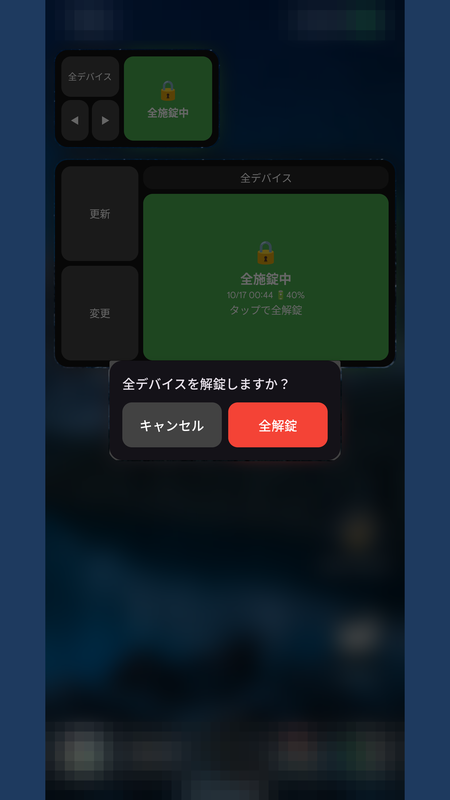
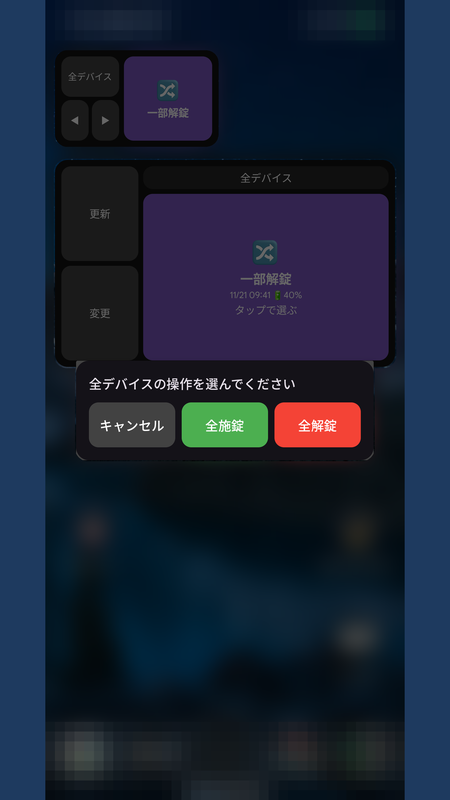
docs: 📝 掲載文・紹介ページ・クローズドテスト案内を0.17.0の動きへ直し、操作パネルを書き足す
ユーザーの判断で、ストア掲載文の主な機能に操作専用タイルなど0.17.0の機能を加え、
タイルの「ワンタップで施錠・解錠の確認画面」の説明を選ぶ画面の動きへ直した。
紹介ページは撮り直したストア画像から画像を作り直し、古い解錠中タイルの画像を外した。

関連: BL-299

Claude-Session: https://claude.ai/code/session_01WnqNbZ6ebvCGnSnCY76eMN

diff --git a/site/index.html b/site/index.html
@@ -51,7 +51,7 @@
           <h1>Sesami Wear<br>手首から<br>鍵をかける</h1>
           <p class="lead">
             Pixel Watch のタイルやスマートフォンのホーム画面ウィジェットから、CANDY HOUSE の
-            Sesame スマートロックをワンタップで施錠・解錠。結果は振動で伝わるので、画面を見返す必要はありません。
+            Sesame スマートロックを施錠・解錠。結果は振動で伝わるので、画面を見返す必要はありません。
           </p>
           <div class="actions">
             <a class="button primary" href="https://github.com/filderschoice/sesami-wear/blob/main/docs/CLOSED_TEST.md">クローズドテストに参加</a>
@@ -69,29 +69,29 @@
     <section id="flow">
       <div class="container">
         <h2>操作の流れ</h2>
-        <p class="section-lead">解錠までの操作は 3 ステップです。施錠は確認なしの 1 タップで、結果は振動で伝わります。</p>
+        <p class="section-lead">タップして、施錠か解錠かを選ぶだけです。結果は振動で伝わります。全施錠だけなら、操作パネルのタイルからタップ 1 回です。</p>
         <div class="flow-grid">
-          <div class="demo" role="img" aria-label="ウォッチの操作イメージ。タイルをタップし、確認画面で全解錠を押すと、タイルが解錠中の表示に変わる（約9秒で繰り返すアニメーション）">
+          <div class="demo" role="img" aria-label="ウォッチの操作イメージ。タイルをタップすると施錠・解錠を選ぶ画面が開き、全施錠か全解錠を押して実行する。全施錠だけなら操作パネルのタイルからタップ1回（約9秒で繰り返すアニメーション）">
             <img class="demo-frame f1" src="assets/wear-tile-locked.png" alt="" width="384" height="384">
             <img class="demo-frame f2" src="assets/wear-unlock-confirm.png" alt="" width="384" height="384">
-            <img class="demo-frame f3" src="assets/wear-3-tile-unlocked.png" alt="" width="384" height="384">
+            <img class="demo-frame f3" src="assets/wear-control-panel.png" alt="" width="384" height="384">
             <p class="demo-caption c1">① タイルの大きなボタンをタップ</p>
-            <p class="demo-caption c2">② 確認画面で「全解錠」を押す</p>
-            <p class="demo-caption c3">③ 解錠。成功は振動でも伝わる</p>
+            <p class="demo-caption c2">② 「全施錠」か「全解錠」を押す</p>
+            <p class="demo-caption c3">③ 全施錠だけなら操作パネルから1タップ</p>
           </div>
           <ol class="flow-steps">
-            <li><strong>タップ</strong>タイルのボタンが、現在の状態と次の操作を示します。</li>
-            <li><strong>確認</strong>解錠だけは確認を挟み、手首が当たった程度では開きません。施錠は確認なしです。</li>
+            <li><strong>タップ</strong>タイルのボタンが現在の状態を示し、タップすると施錠・解錠を選ぶ画面が開きます。</li>
+            <li><strong>選ぶ</strong>施錠・解錠を選ぶ画面で押したときだけ実行します。手首が当たった程度では開きません。</li>
             <li><strong>結果</strong>成功と失敗は異なる振動パターンで伝わります。画面を見返す必要はありません。</li>
           </ol>
         </div>
         <h3 class="spaced">スマートフォンのウィジェットでも同じ操作</h3>
         <ul class="flow-row">
-          <li><img class="phone" src="assets/phone-widget.png" alt="ホーム画面のウィジェット。全デバイスが施錠中で、全解錠のボタンが緑色に表示されている" width="450" height="800" loading="lazy"><span>① 施錠中のウィジェットをタップ</span></li>
+          <li><img class="phone" src="assets/phone-widget.png" alt="ホーム画面のウィジェット。全デバイスが施錠中で、緑色のボタンに「タップで選ぶ」と表示されている" width="450" height="800" loading="lazy"><span>① ウィジェットをタップ</span></li>
           <li class="arrow" aria-hidden="true">→</li>
-          <li><img class="phone" src="assets/phone-2-widget-unlock-confirm.png" alt="ウィジェットの下に「全デバイスを解錠しますか？」の確認ダイアログが出ている" width="450" height="800" loading="lazy"><span>② 確認ダイアログで「全解錠」</span></li>
+          <li><img class="phone" src="assets/phone-2-widget-unlock-confirm.png" alt="ウィジェットの上に「全デバイスの操作を選んでください」の画面が出ていて、キャンセル・全施錠・全解錠のボタンが並ぶ" width="450" height="800" loading="lazy"><span>② 「全施錠」か「全解錠」を押す</span></li>
           <li class="arrow" aria-hidden="true">→</li>
-          <li><img class="phone" src="assets/phone-3-widget-unlocked.png" alt="ウィジェットが赤色の「解錠中」の表示に変わっている" width="450" height="800" loading="lazy"><span>③ 赤い「解錠中」に変わる</span></li>
+          <li><img class="phone" src="assets/phone-3-widget-unlocked.png" alt="小さいウィジェットは玄関が赤色の「解錠中」、大きいウィジェットは全デバイスが紫色の「一部解錠」の表示になっている" width="450" height="800" loading="lazy"><span>③ 結果の状態に変わる</span></li>
         </ul>
       </div>
     </section>
@@ -105,8 +105,8 @@
         <ul class="features">
           <li class="card">
             <span class="tag">タイル</span>
-            <h3>ワンタップで施錠・解錠</h3>
-            <p>Wear OS のタイルから操作します。施錠は即時、解錠は誤操作を防ぐため確認を挟みます。通信中はボタンを無効にして二重送信を防ぎます。ウォッチのアプリの一覧からも、セサミの欄をタップして同じように操作でき、末尾の「更新」「全施錠」「すべて更新」でまとめて扱えます。</p>
+            <h3>タイルから施錠・解錠</h3>
+            <p>Wear OS のタイルから操作します。タップすると施錠・解錠を選ぶ画面が開き、押したときだけ実行するので誤操作を防げます。全施錠をタップ 1 回で実行できる操作専用のタイル「Sesami 操作パネル」もあります。通信中はボタンを無効にして二重送信を防ぎます。ウォッチのアプリの一覧からも、セサミの欄をタップして同じように操作でき、末尾の「更新」「全施錠」「すべて更新」でまとめて扱えます。</p>
           </li>
           <li class="card">
             <span class="tag">振動</span>
@@ -172,13 +172,13 @@
       <div class="container">
         <h2>画面</h2>
         <h3>ウォッチ</h3>
-        <p class="section-lead">Pixel Watch 2 での表示です（0.14.0。コンプリケーションは以前の版で撮影）。</p>
+        <p class="section-lead">Pixel Watch 2 での表示です（タイル・選ぶ画面・操作パネルは 0.17.0、そのほかは以前の版で撮影）。</p>
         <!-- TEMPLATE: 画面のスクリーンショット（1 枚 = 1 つの li。不要ならセクションごと削除） -->
         <ul class="features">
           <li class="card">
-            <img src="assets/wear-tile-locked.png" alt="ウォッチのタイル。全デバイスが施錠中で、タップで全解錠できることを示す緑のボタンと、更新・変更のボタンが並ぶ" width="384" height="384">
+            <img src="assets/wear-tile-locked.png" alt="ウォッチのタイル。全デバイスが施錠中で、「タップで選ぶ」と表示された緑のボタンと、更新・変更のボタンが並ぶ" width="384" height="384">
             <h3>タイル（施錠中）</h3>
-            <p>大きなボタンが状態と次の操作を示します。</p>
+            <p>大きなボタンが状態を示し、タップで施錠・解錠を選べます。</p>
           </li>
           <li class="card">
             <img src="assets/wear-tile-mixed.png" alt="ウォッチのタイル。全デバイスのうち一部だけが解錠されている状態を紫のボタンで示している" width="384" height="384">
@@ -186,9 +186,9 @@
             <p>複数台の状態が揃っていないことも一目で分かります。</p>
           </li>
           <li class="card">
-            <img src="assets/wear-unlock-confirm.png" alt="解錠の確認画面。左にキャンセル、右に赤い全解錠のボタンがある" width="384" height="384">
-            <h3>解錠の確認</h3>
-            <p>解錠だけは確認を挟み、誤操作を防ぎます。</p>
+            <img src="assets/wear-unlock-confirm.png" alt="施錠・解錠を選ぶ画面。左に緑の全施錠、右に赤い全解錠のボタンがある" width="384" height="384">
+            <h3>施錠・解錠を選ぶ</h3>
+            <p>押したほうだけを実行します。やめるときは右へスワイプします。</p>
           </li>
           <li class="card">
             <img src="assets/wear-complication.png" alt="ウォッチフェイス。時刻の下に並ぶコンプリケーションのひとつに「施錠」と表示されている" width="384" height="384">
@@ -196,9 +196,9 @@
             <p>文字盤から現在の状態を確認できます。</p>
           </li>
           <li class="card">
-            <img src="assets/wear-3-tile-unlocked.png" alt="ウォッチのタイル。全デバイスが解錠中で、タップで全施錠できることを示す赤いボタンが表示されている" width="384" height="384" loading="lazy">
-            <h3>タイル（解錠中）</h3>
-            <p>もう一度タップすれば、確認なしで全施錠します。</p>
+            <img src="assets/wear-control-panel.png" alt="操作専用タイル「Sesami 操作パネル」。上に緑の全施錠と赤い全解錠のボタン、下に玄関・勝手口・ガレージの状態のボタンが並び、玄関だけ解錠中の赤になっている" width="384" height="384" loading="lazy">
+            <h3>操作パネル</h3>
+            <p>全施錠はタップ 1 回。全解錠と台ごとの操作は、選ぶ画面を経て実行します。</p>
           </li>
           <li class="card">
             <img src="assets/wear-6-device-select.png" alt="ウォッチのデバイス選択画面。タイルで操作する対象のデバイスを選ぶ一覧" width="384" height="384" loading="lazy">
@@ -212,12 +212,12 @@
           </li>
         </ul>
         <h3 class="spaced">スマートフォン</h3>
-        <p class="section-lead">Pixel 8 Pro での表示です（0.14.3。個人情報の写る部分は加工しています）。</p>
+        <p class="section-lead">Pixel 8 Pro での表示です（デバイス一覧は 0.17.0、そのほかは以前の版で撮影。個人情報の写る部分は加工しています）。</p>
         <ul class="features">
           <li class="card">
-            <img class="phone" src="assets/phone-4-device-list.png" alt="アプリのデバイス一覧。玄関・勝手口・ガレージの3台が、施錠状態・電池残量・経路とともに並び、右上のBluetoothアイコンと各カードの接続確認から接続を確かめられる" width="450" height="800" loading="lazy">
+            <img class="phone" src="assets/phone-4-device-list.png" alt="アプリのデバイス一覧。玄関・勝手口・ガレージの3台が、施錠状態・電池残量・経路とともに並び、各カードに「鍵を操作」と「Bluetooth」のボタンがある" width="450" height="800" loading="lazy">
             <h3>デバイス一覧</h3>
-            <p>状態・電池残量・操作した経路を、デバイスごとに確認できます。</p>
+            <p>状態・電池残量・操作した経路を、デバイスごとに確認できます。「鍵を操作」から施錠・解錠もできます。</p>
           </li>
           <li class="card">
             <img class="phone" src="assets/phone-8-dial.png" alt="ダイヤル操作の画面。円の中の針でサムターンの角度を示し、円を半周なぞると施錠・解錠できる" width="450" height="800" loading="lazy">
@@ -274,7 +274,7 @@
           <li>SESAME Biz 開発者ページ（biz.candyhouse.co）で、uuid・apikey・secretKey の 3 点を確認・発行します。</li>
           <li>スマートフォンの Sesami Wear を開き、3 点とデバイス名を登録します（端末内に暗号化して保存します）。</li>
           <li>ウォッチにも Sesami Wear をインストールします（ウォッチの Google Play で検索。スマートフォンに入れただけでは入りません）。ウォッチのタイル一覧で「＋」から Sesami Wear を追加し、操作したいデバイスを選びます。ウォッチが無い場合はホーム画面にウィジェットを置きます。</li>
-          <li>ボタンをタップすると施錠します。解錠は確認画面で「解錠」を押します。成功・失敗は振動で分かります。</li>
+          <li>ボタンをタップすると施錠・解錠を選ぶ画面が開きます。「施錠」か「解錠」を押すと実行し、成功・失敗は振動で分かります。全施錠だけなら、操作パネルのタイルからタップ 1 回です。</li>
         </ol>
         <p class="spaced">詳しい手順は<a href="https://github.com/filderschoice/sesami-wear/blob/main/docs/USER_GUIDE.md">利用ガイド</a>を参照してください。</p>
       </div>

diff --git a/docs/records/managed/BACKLOG.md b/docs/records/managed/BACKLOG.md
@@ -5,31 +5,6 @@
 
 <!-- COPILOT_RECORDS:BEGIN -->
 ```yaml
-- id: BL-299
-  区分: 機能追加
-  タスク内容: >-
-    Google Playのストア掲載文（`docs/store/STORE_LISTING.md`の「主な機能」）へ、BL-298の操作専用タイル
-    （「Sesami 操作パネル」。ウォッチのタイル追加の一覧に別のタイルとして並び、全施錠・全解錠と台ごとの状態を1つに並べる）を
-    1行足すかを判断し、足すなら文面を直す。掲載文の変更は外部公開に関わるため、BL-298では変更していない。
-    あわせて`site/`のポートフォリオ（機能一覧）への追随要否も確認する。Play Consoleへの反映はユーザーが行う。
-    2026-11-21のドキュメント点検で、0.17.0の変更（BL-295・BL-303・BL-304。タップは常に施錠・解錠を選ぶ画面を開き、
-    解錠だけの確認ダイアログと解錠中の即施錠は無くなった）と食い違う公開向けの記述が見つかった。0.16.0の説明としては正しいため、
-    0.17.0の配信に合わせて直す: `docs/store/STORE_LISTING.md`「主な機能」の1〜2項目目（「タイルから施錠・解錠をワンタップで実行」
-    「解錠は確認ダイアログを経由し、施錠は即時実行」）、`docs/CLOSED_TEST.md` 9行目（「タイルをワンタップで施錠」）と57行目
-    （「確認画面」）、`site/index.html` の操作の流れ（74〜84行目の「確認画面で全解錠を押す」「施錠は確認なし」）・機能カード
-    （108行目「ワンタップで施錠・解錠」）・画面の`alt`と説明（179・189・199・201行目の「タップで全解錠」「解錠の確認画面」
-    「確認なしで全施錠」）・使い方（277行目）。`site/assets/`の`wear-*.png`・`phone-*.png`は撮り直したストア画像から作り直す
-    （`site/README.md`の手順）。
-  優先度: P3
-  状態: 未着手
-  担当: AIエージェント
-  完了条件: >-
-    掲載文とポートフォリオの扱い（足す・足さない）が決まり、足す場合は`docs/store/STORE_LISTING.md`（文字数の上限内）と
-    `site/`が直っていること。0.17.0の配信時点で、上記の食い違う記述と`site/assets/`の画像が0.17.0の動きに合っていること
-  根拠: >-
-    BL-298で操作専用タイルを追加したため。ストア掲載文は外部へ公開されるので、機能実装の変更と分けてユーザーが判断する。
-  依存: []
-
 - id: BL-297
   区分: 人手検証
   タスク内容: >-

diff --git a/site/README.md b/site/README.md
@@ -21,7 +21,7 @@ Sesami Wear を紹介する静的な 1 ページです。Romcha（`C:\Dev\repo\p
 | `icon.svg` | アプリのアイコン | `mobile/src/main/res/drawable/ic_launcher_*.xml`（リングの `trimPath` は円弧へ置き換え） |
 | `how-it-works.svg` | 仕組みの図解 | DESIGN.md「アーキテクチャ方針」 |
 | `phone-widget.png` | ヒーローの画面（ホーム画面ウィジェット） | `docs/store/images/screenshots/phone_1_widget_locked.png` を 450x800 へ縮小 |
-| `wear-*.png` | 「操作の流れ」「画面」セクションのウォッチ画面 | `docs/store/images/screenshots/wear_1`〜`wear_6`（384x384 のまま） |
+| `wear-*.png` | 「操作の流れ」「画面」セクションのウォッチ画面 | `docs/store/images/screenshots/wear_1`〜`wear_6`・`wear_10`（384x384 のまま。`wear-control-panel.png` は `wear_10_control_panel.png`） |
 | `phone-*.png` | 「操作の流れ」「画面」セクションのスマートフォン画面 | `docs/store/images/screenshots/phone_2`〜`phone_8` を 450x800 へ縮小（`phone-widget.png` は phone_1） |
 | `radar-phone-*.png` / `radar-wear-*.png` | 「Bluetooth接続を確認」（レーダー）画面のイメージ（探索中・発見・接続OK・圏外の4状態。スマートフォン450x800、ウォッチ384x384）。**実機のスクリーンショットではなく、実装の寸法・色・文言を転記して描いたイメージ画像**で、現時点では`index.html`に掲載していない（今後の掲載・ドキュメント用） | `scripts/generate-radar-images.py`で生成（BL-277） |
 
@@ -45,7 +45,7 @@ Sesami Wear を紹介する静的な 1 ページです。Romcha（`C:\Dev\repo\p
 
 ## テンプレート（Romcha）からの差分
 
-- 「操作の流れ」セクション（`#flow`）を追加した。ウォッチのタイル→確認→解錠を CSS だけで切り替えるアニメーション
+- 「操作の流れ」セクション（`#flow`）を追加した。ウォッチのタイル→施錠・解錠を選ぶ画面→操作パネルを CSS だけで切り替えるアニメーション
   （`prefers-reduced-motion` では 3 枚の並びにする）と、ウィジェットの 3 コマを載せている。
 - 「画面」セクション（`#screens`）を追加した（ウォッチ・スマートフォンの 2 組）。機能カードと同じ `.features` の並びに、スクリーンショットを載せたカードを置く。
 - 上記のため `style.css` に `.card img` を 1 つ追加した（丸いウォッチ画面に合わせて円形に切り抜く）。

diff --git a/CHANGELOG.md b/CHANGELOG.md
@@ -7,6 +7,21 @@
 - コード修正1件ごとの実施記録: [docs/records/managed/EXECUTE.md](docs/records/managed/EXECUTE.md)
 - 本ファイル: 上記以外（運用ルール、ドキュメント構成、ガードレールの変更）
 
+## 2026-11-21（公開向けの掲載文・紹介ページを0.17.0へ追随）
+
+ユーザーの判断（2026-11-21。操作パネルを掲載文へ書き足す、公開向けの記述は0.17.0のリリースに合わせて直す）により、
+BL-299を実施した（BACKLOGから削除）。
+
+- `docs/store/STORE_LISTING.md`「主な機能」: タイルの説明を「タップで施錠・解錠を選ぶ画面」へ直し、操作専用タイル
+  「Sesami 操作パネル」、カードの「鍵を操作」、送信後の状態確認、操作履歴の通信の詳細、接続確認を加えた。
+  「解錠は確認ダイアログを経由し、施錠は即時実行」を削除した。文字数の実測値を直した（詳細な説明 3464／4000、新機能 185／500）
+- `docs/CLOSED_TEST.md`: 「タイルをワンタップで施錠」「確認画面」を直し、0.17.0の動きを加えた
+- `site/`: 操作の流れ（タップ→選ぶ画面→操作パネル）・機能カード・画面の説明と`alt`・使い方を直した。画像は撮り直したストア画像から
+  作り直し（`phone-widget`・`phone-2`〜`phone-4`・`wear-tile-locked`・`wear-tile-mixed`・`wear-unlock-confirm`）、
+  `wear-control-panel.png`を加えた。古い「タップで全施錠」が写る`wear-3-tile-unlocked.png`は撮り直していないため削除した。
+  版の表記（v0.16.0）は0.17.0のリリース作業で上げる
+- Play Consoleへの掲載文・画像の反映はユーザーが行う
+
 ## 2026-11-21（UI設計書を0.17.0の画面へ追随）
 
 `docs/design/UI_DESIGN.html` を、対象コミット 84b7116（2026-11-09）から dd80f61 までのUI変更へ追随させた（BL-305。BACKLOGから削除）。
